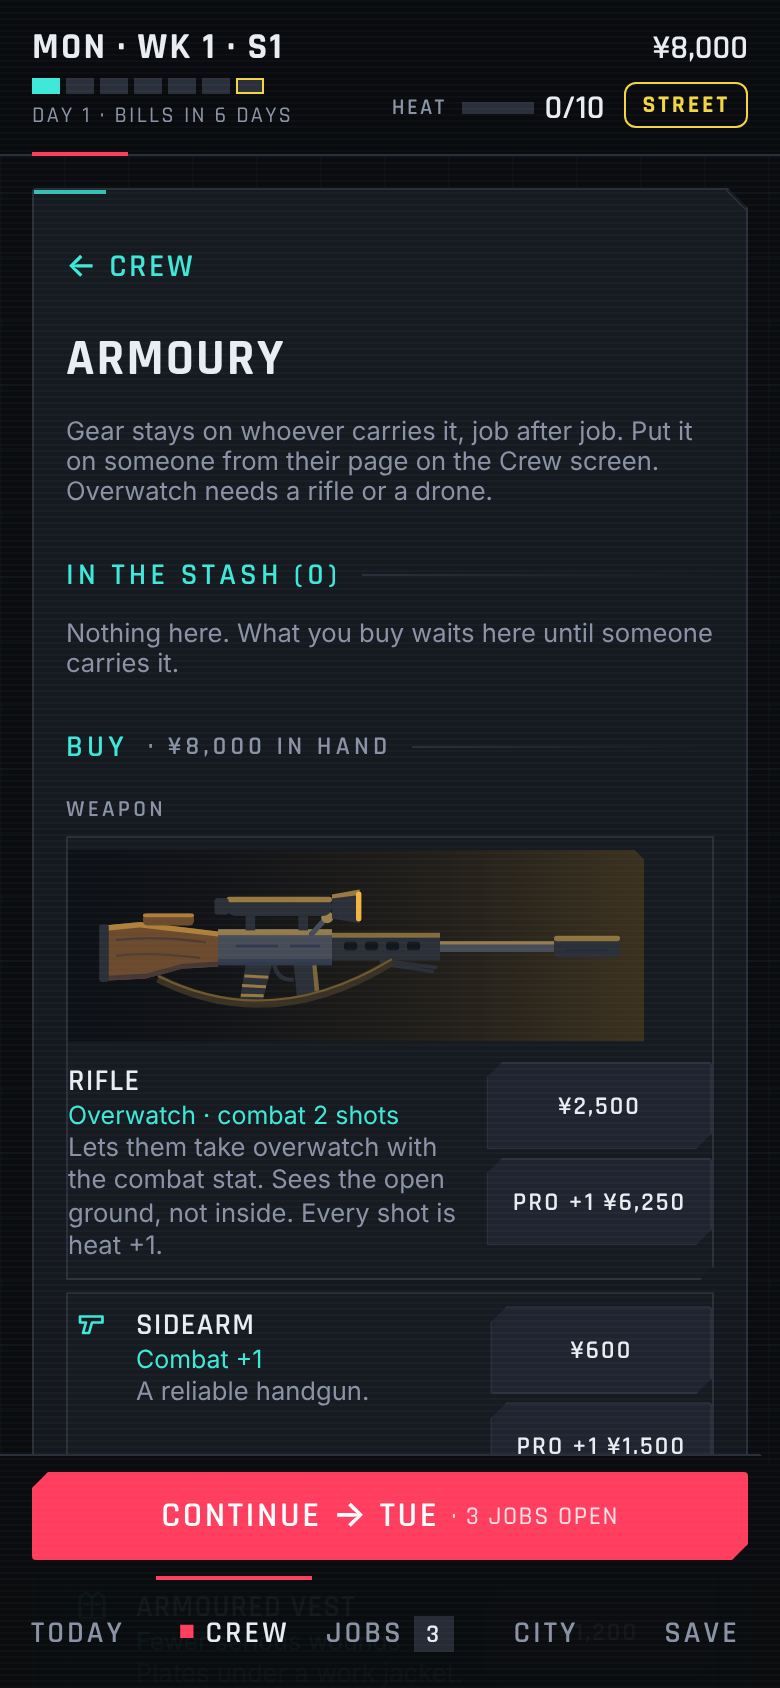
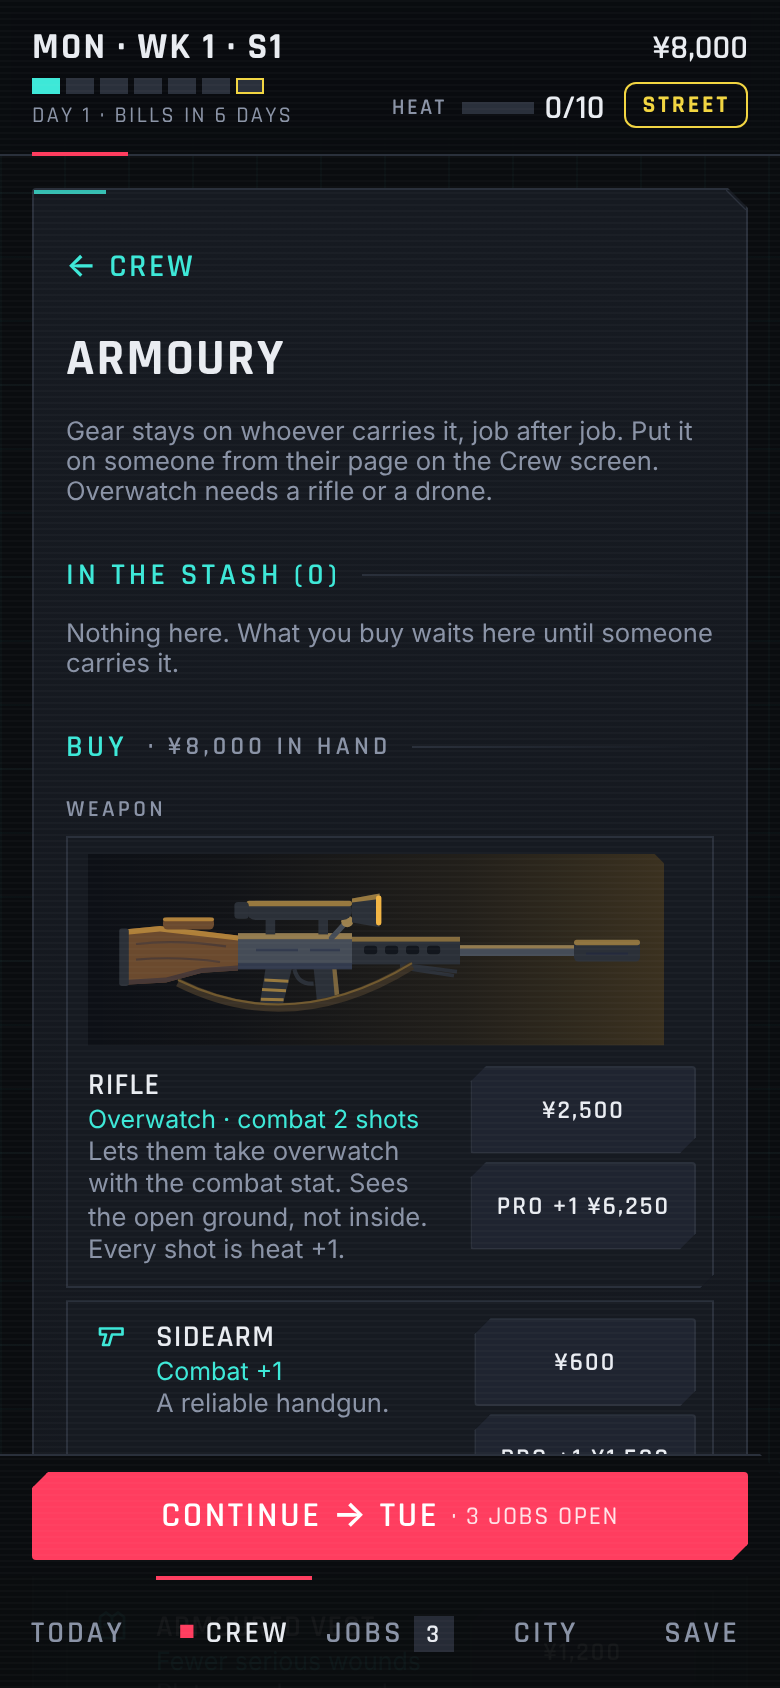
Fix the armoury rows' padding and the crew list's stat line alignment (owner's captures)

diff --git a/src/ui/styles.css b/src/ui/styles.css
@@ -948,3 +948,7 @@ h2::after { content: ''; flex: 1; height: 1px; background: linear-gradient(90deg
 .gearrow:has(.gearrow__art) { grid-template-columns: 1fr auto; }
 .gearrow:has(.gearrow__art) .gearrow__art { grid-column: 1 / -1; width: 100%; max-width: 288px; }
 .gearrow:has(.gearrow__art) .gearrow__art svg { width: 100%; height: auto; }
+/* The armoury's rows are list items: keep their own padding over the plain list's (owner's capture, 2026-10-28). */
+.gearlist > .gearrow { padding: 8px 8px 8px 10px; }
+/* The crew list's stat line: the icon, the stat and the words share one centre line. */
+.scoutline { display: inline-flex; flex-wrap: wrap; align-items: center; column-gap: 4px; }

diff --git a/src/ui/app.js b/src/ui/app.js
@@ -317,7 +317,7 @@ const seasonChanges = (op) => changesSince(op, seasonStartDay(state.day));
 /** Crew-list one-liner: their best (main) stat and the scout's read of where they're heading. */
 function scoutLine(op) {
   const main = primaryStat(op);
-  return `<span class="scoutline"><span class="iconword">${statGlyph(main)}${esc(statName(main))} ${ratedStat(op, main)}</span> · ${esc(potentialTag(op))}</span>`;
+  return `<span class="scoutline"><span class="iconword">${statGlyph(main)}${esc(statName(main))} ${ratedStat(op, main)}</span><span>· ${esc(potentialTag(op))}</span></span>`;
 }
 
 /** Crew-list marker: "▲ Tech +2, Combat +1 ▼ Driving −1" for this season. */

diff --git a/docs/screenshots/README.md b/docs/screenshots/README.md
@@ -22,6 +22,7 @@ Then add a row to the top of the table below and commit the folder with the chan
 
 | Date | Version | Commit | What's new on screen | Folder |
 | --- | --- | --- | --- | --- |
+| 2026-10-28 | Owner captures: two alignment bugs | (`7157098`) | The armoury's rifle row with its text against the box's edge (the plain list's padding won over the row's), and the crew list's "Combat 12 · a steady pair of hands" with the icon and stat raised above the words. Both fixed in the next set's recapture. | [2026-10-28-owner-captures-alignment](2026-10-28-owner-captures-alignment/) |
 | 2026-10-28 | The rifle, drawn | (this change) | The rifle's drawing in the armoury (above its words), a runner's gear as 2×2 tiles with the rifle drawn big in their city light, and the rifle slung across the muscle's back in the crew list's portraits. | [2026-10-28-rifle-art](2026-10-28-rifle-art/) |
 | 2026-10-28 | Design session: a rifle on the portraits | (this change) | Gear on faces, the rifle first: no rifle, then A over the shoulder, B across the back, C held across the chest and D peeking on the shadow side, each street (gunmetal, wooden stock, taped grip) and pro (carbon with a neon line), on five varied faces at 104, 48 and 32px. From `drafts/prototypes/rifle-portrait-options.html`. Then (06-11) the rifle as an item, drawn like the portraits: large street and pro, under each city light, in the armoury row, in a gear slot as a row and as tiles, and B redrawn lower and steeper on the back (owner's note). From `drafts/prototypes/rifle-item-options.html`. | [2026-10-28-design-session-rifle-portraits](2026-10-28-design-session-rifle-portraits/) |
 | 2026-10-28 | Design session: specialisations | (this change) | Captured by `scripts/capture-specialisations.mjs` (a save edited so the muscle has a rifle, the stats and three overwatch jobs): Today with Joss's offer, the Marksman offer, taking it, the career page's Specialisation heading, the overwatch picker (only the rifle carrier can go, "3 shots"), and the board's overwatch card reading "rifle · Marksman". | [2026-10-28-specialisations](2026-10-28-specialisations/) |

diff --git a/CHANGELOG.md b/CHANGELOG.md
@@ -9,6 +9,7 @@ Live build: https://marcusw9.github.io/syndicate-manager/
 - **The rifle has its own picture**, in the same style as the faces: a street rifle with a worn wooden stock and taped grip, or a pro one in carbon with a neon line. It catches the city light of whoever carries it.
 - **You can see who carries one**: a runner with a rifle has it slung across their back in their portrait, everywhere their face appears.
 - **A runner's gear is four tiles** on their page, each item drawn big; the armoury shows the rifle's picture too. Other gear keeps its small icon until it gets a drawing of its own.
+- Fixed (owner's captures): the armoury's rows kept their text against the box's edge, and the crew list's stat line had the icon and number sitting higher than the words after them.
 
 ## 2026-10-28 · Marksman and Drone Jockey (the squad run, part 5b)
 - **Overwatch can become a career.** Someone who has done three jobs on overwatch with a rifle, with combat 10 and cool 8, gets an offer from Joss to train as a **Marksman**: one more shot, +1 to hit, and a miss costs no heat. Three jobs with a drone and tech 10 brings **Drone Jockey**: one more action, +1, and half the neural load.
